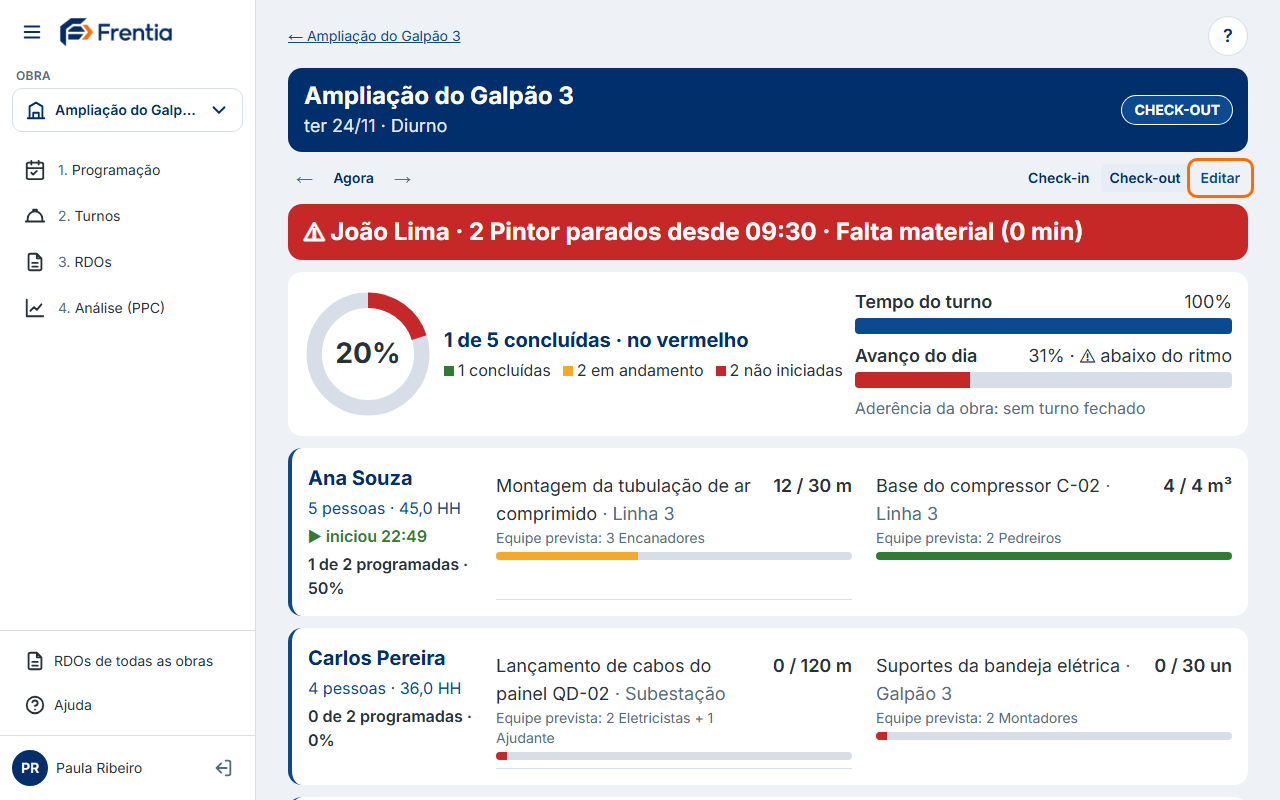
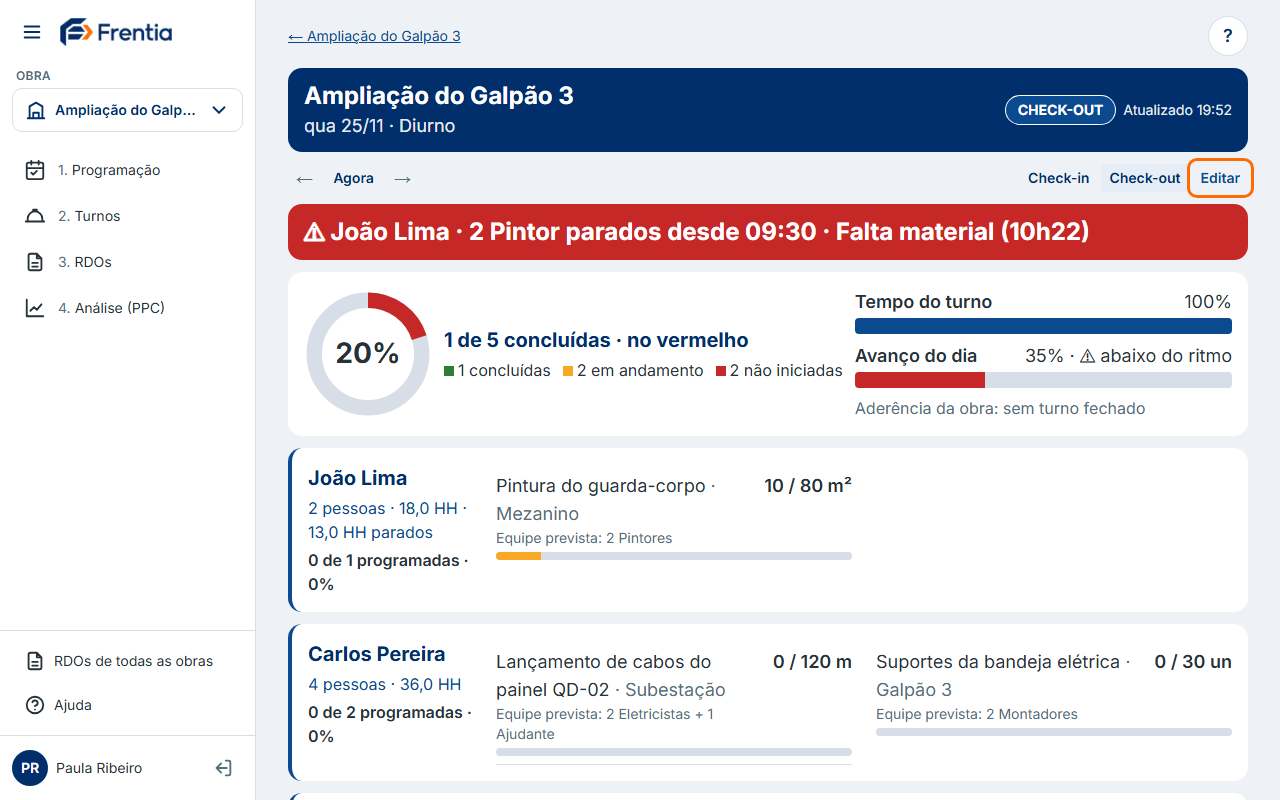
feat(quadro): TV mais legível — check-in de manhã, ajuda primeiro, causa externa×interna, observação, acima da meta, cedidos e hora (item 14)
Dependência entre equipes virou o item 23 do backlog.

diff --git a/components/quadro/Quadro.tsx b/components/quadro/Quadro.tsx
@@ -2,8 +2,8 @@ import Link from "next/link";
 import { pessoas } from "@/lib/dominio/plural";
 import { textoEquipe } from "@/lib/dominio/equipePrevista";
 import { formatarPercentual, numeroBR, ROTULO_PERIODO } from "@/lib/dominio/formato";
-import type { FaixaQuadro, ModeloQuadro, ResumoEquipe, Visao } from "@/lib/dominio/quadro";
-import { CAUSAS, type StatusAtividade } from "@/lib/dominio/tipos";
+import { ordenarPorAjuda, type FaixaQuadro, type ModeloQuadro, type ResumoEquipe, type Visao } from "@/lib/dominio/quadro";
+import { CAUSAS, GRUPO_CAUSA, type StatusAtividade } from "@/lib/dominio/tipos";
 import { nomeDaEquipe } from "@/lib/dominio/efetivoHH";
 import { resumoDoTurno } from "@/lib/dominio/ritmo";
 import type { Problema } from "@/lib/dominio/problemas";
@@ -48,11 +48,14 @@ function textoResumo(r: ResumoEquipe): string {
 }
 
 function Recebidos({ r, nome }: { r: ResumoEquipe; nome: (id: string | null) => string }) {
-  if (r.recebidos.length === 0) return null;
+  if (r.recebidos.length === 0 && r.cedidos.length === 0) return null;
   return (
     <ul className="text-sm text-operacional xl:text-base">
       {r.recebidos.map((x) => (
         <li key={x.emprestimo_id}>{`+${pessoas(x.quantidade, x.funcao)} (de ${nome(x.de)}, ${x.inicio}–${x.fim})`}</li>
+      ))}
+      {r.cedidos.map((x) => (
+        <li key={`c-${x.emprestimo_id}`} className="text-texto-suave">{`−${pessoas(x.quantidade, x.funcao)} (para ${nome(x.para)}, ${x.inicio}–${x.fim})`}</li>
       ))}
     </ul>
   );
@@ -83,7 +86,7 @@ function Faixa({
         <h3 className="text-base font-bold text-primaria xl:text-xl">{nome}</h3>
         {visao === "checkin" ? (
           <>
-            {faixa.efetivo.length === 0 && r.recebidos.length === 0 ? (
+            {faixa.efetivo.length === 0 && r.recebidos.length === 0 && r.cedidos.length === 0 ? (
               <p className="text-sm text-texto-suave">Efetivo não informado</p>
             ) : (
               <ul className="text-sm text-operacional xl:text-base">
@@ -136,6 +139,9 @@ function Faixa({
                     {textoEquipe(a.equipe) && <span className="block text-xs text-texto-suave xl:text-sm">{textoEquipe(a.equipe)}</span>}
                     {a.meta_origem && <span className="block text-xs text-texto-suave xl:text-sm">{`Meta ${a.meta_origem}`}</span>}
                   </span>
+                  {visao === "checkout" && (a.qtd_realizada ?? 0) > a.qtd_planejada && (
+                    <span className="shrink-0 rounded-full bg-sucesso px-2 text-xs font-bold text-white xl:text-sm">▲ acima da meta</span>
+                  )}
                   <span className="shrink-0 font-semibold">
                     {visao === "checkin"
                       ? `${numeroBR(a.qtd_planejada)} ${un}`
@@ -145,11 +151,14 @@ function Faixa({
                 {visao === "checkout" && (
                   <>
                     <div className="mt-1 h-1.5 overflow-hidden rounded bg-borda xl:h-2" aria-hidden="true">
-                      <div className={`h-full ${COR_BARRA[a.situacao]}`} style={{ width: `${Math.max(pct * 100, 3)}%` }} />
+                      <div className={`h-full ${COR_BARRA[a.situacao]}`} style={{ width: `${pct > 0 ? Math.max(pct * 100, 3) : 0}%` }} />
                     </div>
                     {a.causa && a.situacao !== "concluida" && (
-                      <p className="mt-0.5 text-xs text-perigo xl:text-sm">{`Causa: ${CAUSAS[a.causa]}`}</p>
+                      <p className={`mt-0.5 text-sm font-semibold xl:text-lg ${GRUPO_CAUSA[a.causa] === "externa" ? "text-alerta-escura" : "text-perigo"}`}>
+                        {`${GRUPO_CAUSA[a.causa] === "externa" ? "Causa externa" : GRUPO_CAUSA[a.causa] === "interna" ? "Causa interna" : "Causa"}: ${CAUSAS[a.causa]}`}
+                      </p>
                     )}
+                    {a.observacao && <p className="mt-0.5 text-xs text-texto-suave xl:text-base">{a.observacao}</p>}
                   </>
                 )}
               </li>
@@ -183,6 +192,7 @@ export function Quadro({ modelo, visao, publico, navegacao, seletor, aviso, edit
             {seloEtapa}
           </span>
           {fechado && <span className="rounded-full bg-white px-3 py-1 text-xs font-bold text-primaria xl:text-sm">Turno fechado</span>}
+          {!fechado && agora && <span className="text-xs opacity-90 xl:text-sm">{`Atualizado ${agora}`}</span>}
         </div>
       </header>
 
@@ -230,7 +240,7 @@ export function Quadro({ modelo, visao, publico, navegacao, seletor, aviso, edit
       {faixas.length === 0 ? (
         <p className="rounded-cartao bg-superficie p-4 text-texto-suave">Nenhuma atividade neste turno.</p>
       ) : (
-        faixas.map((f) => (
+        (visao === "checkout" ? ordenarPorAjuda(modelo) : faixas).map((f) => (
           <Faixa key={f.responsavel?.id ?? "sem"} faixa={f} visao={visao} mostrarExtra={mostrarExtra} unidadeVazia="un" nome={nomeEquipe} />
         ))
       )}

diff --git a/lib/dominio/quadro.ts b/lib/dominio/quadro.ts
@@ -52,6 +52,8 @@ export type EntradaQuadro = {
     equipe?: { funcao: string; quantidade: number }[];
     /** Meta herdada da sequência (item 19), ex.: "inclui 4 m do turno do dia (Luis)". */
     meta_origem?: string | null;
+    /** Observação do lançamento; ausente em fotos antigas. */
+    observacao?: string | null;
   }[];
   efetivo: { funcao: string; quantidade: number; responsavel_id: string | null }[];
   /** Ausente na foto do check-in antiga (= nenhuma). */
@@ -62,6 +64,7 @@ export type EntradaQuadro = {
   iniciados?: Iniciado[];
 };
 export type Visao = "checkin" | "checkout";
+export type Cedido = Omit<Recebido, "de"> & { para: string | null };
 export type ResumoEquipe = {
   concluidas: number;
   total: number;
@@ -75,6 +78,8 @@ export type ResumoEquipe = {
   hhParado: number | null;
   /** Pessoas emprestadas por outras equipes (não entram em `pessoas`). */
   recebidos: Recebido[];
+  /** Pessoas emprestadas a outras equipes (o outro lado de `recebidos`). */
+  cedidos: Cedido[];
   avisos: string[];
   /** "HH:MM" em que a equipe avisou que terminou. */
   terminouEm: string | null;
@@ -133,6 +138,7 @@ export function resumoEquipe(
     hh: total === null || (total === 0 && !h?.recebidos.length && faixa.efetivo.length === 0) ? null : umaCasa(total),
     hhParado: total === null ? null : umaCasa(h?.hhParado),
     recebidos: h?.recebidos ?? [],
+    cedidos: [],
     avisos: h?.avisos ?? [],
     terminouEm: null,
     iniciouEm: null,
@@ -172,13 +178,16 @@ export function montarQuadro(e: EntradaQuadro, agora?: string): ModeloQuadro {
       .map(({ funcao, quantidade }) => ({ funcao, quantidade }));
     const hhEquipe = hh.equipes.find((x) => x.responsavel_id === id);
     const resumo = resumoEquipe({ atividades, efetivo }, e.turno, temProgramada, hhEquipe);
+    const cedidos = hh.equipes.flatMap((x) =>
+      x.recebidos.filter((r) => r.de === id).map(({ de: _de, ...r }) => ({ ...r, para: x.responsavel_id })),
+    );
     const t = (e.terminados ?? []).find((x) => x.responsavel_id === id);
     const i = (e.iniciados ?? []).find((x) => x.responsavel_id === id);
     return {
       responsavel,
       atividades,
       efetivo,
-      resumo: { ...resumo, terminouEm: t ? horaCurta(t.terminou_em) : null, iniciouEm: i ? horaCurta(i.iniciou_em) : null },
+      resumo: { ...resumo, cedidos, terminouEm: t ? horaCurta(t.terminou_em) : null, iniciouEm: i ? horaCurta(i.iniciou_em) : null },
     };
   });
   const nome = nomeDaEquipe(e.responsaveis);
@@ -219,9 +228,25 @@ export function visaoPadrao(status: StatusTurno): Visao {
   return status === "planejado" ? "checkin" : "checkout";
 }
 
-export function visaoValida(pedida: unknown, status: StatusTurno): Visao {
+/** `algoLancado` = alguma atividade já tem realizado; em campo sem lançamento abre no check-in (não mostra 0% vermelho). */
+export function visaoValida(pedida: unknown, status: StatusTurno, algoLancado = true): Visao {
   if (status === "planejado") return "checkin";
-  return pedida === "checkin" || pedida === "checkout" ? pedida : visaoPadrao(status);
+  if (pedida === "checkin" || pedida === "checkout") return pedida;
+  return status === "em_campo" && !algoLancado ? "checkin" : visaoPadrao(status);
+}
+
+/** Faixas do check-out: quem precisa de ajuda primeiro (parada aberta, depois menor % concluído); "Sem responsável" por último. */
+export function ordenarPorAjuda(m: ModeloQuadro): FaixaQuadro[] {
+  const parada = new Set(paradasAbertas(m.entrada.ocorrencias ?? []).map((o) => o.responsavel_id));
+  const peso = (f: FaixaQuadro) => [
+    f.responsavel === null ? 1 : 0,
+    parada.has(f.responsavel?.id ?? null) ? 0 : 1,
+    f.resumo.percentual ?? 2,
+  ];
+  return m.faixas
+    .map((f, i) => ({ f, i, p: peso(f) }))
+    .sort((x, y) => x.p[0] - y.p[0] || x.p[1] - y.p[1] || x.p[2] - y.p[2] || x.i - y.i)
+    .map((x) => x.f);
 }
 
 /** Cookie (no caminho do link) com o responsável que confirmou "Sou eu". */

diff --git a/tests/dominio/quadro.test.ts b/tests/dominio/quadro.test.ts
@@ -4,6 +4,7 @@ import {
   escolherTurno,
   montarQuadro,
   ordenarPorResponsavel,
+  ordenarPorAjuda,
   resolverEscolhaCampo,
   resumoEquipe,
   textoSemResponsavel,
@@ -78,7 +79,7 @@ describe("resumoEquipe", () => {
       atividades: [at("j", 2, 1), at("j", 2, null), at("j", 1, 1, { programada: false })],
       efetivo: [{ funcao: "Mecânico", quantidade: 2, responsavel_id: "j" }, { funcao: "Soldador", quantidade: 1, responsavel_id: "j" }],
     }));
-    expect(m.faixas[0].resumo).toEqual({ concluidas: 0, total: 2, percentual: 0, extras: 1, adiantadas: 0, base: "programadas", pessoas: 3, hh: 26.4, hhParado: 0, recebidos: [], avisos: [], terminouEm: null, iniciouEm: null });
+    expect(m.faixas[0].resumo).toEqual({ concluidas: 0, total: 2, percentual: 0, extras: 1, adiantadas: 0, base: "programadas", pessoas: 3, hh: 26.4, hhParado: 0, recebidos: [], cedidos: [], avisos: [], terminouEm: null, iniciouEm: null });
   });
 
   it("empréstimo: horas vão para a equipe destino, pessoas ficam na origem", () => {
@@ -94,6 +95,8 @@ describe("resumoEquipe", () => {
     expect(ana.resumo.recebidos).toHaveLength(1);
     const joao = m.faixas.find((f) => f.responsavel?.id === "j")!;
     expect(joao.resumo).toMatchObject({ pessoas: 6, hh: 46 });
+    expect(joao.resumo.cedidos).toEqual([{ emprestimo_id: ana.resumo.recebidos[0].emprestimo_id, para: "a", funcao: "Montador", quantidade: 2, inicio: "13:00", fim: ana.resumo.recebidos[0].fim }]);
+    expect(ana.resumo.cedidos).toEqual([]);
   });
 
   it("foto antiga sem ocorrências nem intervalo", () => {
@@ -164,6 +167,12 @@ describe("visão", () => {
     expect(visaoValida("xyz", "fechado")).toBe("checkout");
     expect(visaoValida("checkin", "fechado")).toBe("checkin");
   });
+  it("em campo sem nada lançado abre no check-in (de manhã não mostra 0% vermelho)", () => {
+    expect(visaoValida(undefined, "em_campo", false)).toBe("checkin");
+    expect(visaoValida(undefined, "em_campo", true)).toBe("checkout");
+    expect(visaoValida(undefined, "enviado", false)).toBe("checkout");
+    expect(visaoValida("checkout", "em_campo", false)).toBe("checkout");
+  });
 });
 
 describe("resolverEscolhaCampo", () => {
@@ -230,6 +239,25 @@ describe("quadro: paradas abertas e equipes que terminaram", () => {
   });
   it("sem paradas abertas: lista vazia", () => {
     expect(montarQuadro(entrada({})).paradas).toEqual([]);
+  });
+});
+
+describe("ordenarPorAjuda (check-out)", () => {
+  it("parada aberta primeiro, depois menor % concluído; sem responsável por último", () => {
+    const e = entrada({
+      responsaveis: [
+        { id: "j", nome: "João", ativo: true },
+        { id: "a", nome: "Ana", ativo: true },
+        { id: "c", nome: "Carlos", ativo: true },
+      ],
+      atividades: [at("a", 1, 1), at("j", 2, 0), at("c", 1, 1), at("c", 1, 0), at(null, 1, 0)],
+      ocorrencias: [
+        { id: "p1", responsavel_id: "a", funcao: "Mecânico", tipo: "parado", quantidade: 1, hora_inicio: "10:00", hora_fim: null,
+          destino_responsavel_id: null, emprestimo_id: null, causa: "material", created_at: "1" },
+      ],
+    });
+    const m = montarQuadro(e);
+    expect(ordenarPorAjuda(m).map((f) => f.responsavel?.nome ?? null)).toEqual(["Ana", "João", "Carlos", null]);
   });
 });
 

diff --git a/lib/db/quadro.ts b/lib/db/quadro.ts
@@ -23,7 +23,7 @@ export async function entradaDoTurno(c: SupabaseClient, turnoId: string): Promis
   const { data, error } = await c
     .from("turnos")
     .select(
-      "id, obra_id, data, periodo, status, hora_inicio_prevista, hora_fim_prevista, hora_inicio_real, hora_fim_real, intervalo_inicio, intervalo_fim, obra:obras(id, nome), atividades(id, ordem, descricao, local, unidade, qtd_planejada, qtd_realizada, causa, programacao_atividade_id, responsavel_id, tipo, meta_origem, equipe, programacao_atividades(programacao_efetivo(funcao, quantidade, created_at))), efetivo(id, funcao, quantidade, responsavel_id, created_at), efetivo_ocorrencias(*), turno_equipes_terminadas(responsavel_id, terminou_em), turno_equipes_iniciadas(responsavel_id, iniciou_em)",
+      "id, obra_id, data, periodo, status, hora_inicio_prevista, hora_fim_prevista, hora_inicio_real, hora_fim_real, intervalo_inicio, intervalo_fim, obra:obras(id, nome), atividades(id, ordem, descricao, local, unidade, qtd_planejada, qtd_realizada, causa, observacao, programacao_atividade_id, responsavel_id, tipo, meta_origem, equipe, programacao_atividades(programacao_efetivo(funcao, quantidade, created_at))), efetivo(id, funcao, quantidade, responsavel_id, created_at), efetivo_ocorrencias(*), turno_equipes_terminadas(responsavel_id, terminou_em), turno_equipes_iniciadas(responsavel_id, iniciou_em)",
     )
     .eq("id", turnoId)
     .maybeSingle();
@@ -56,6 +56,7 @@ export async function entradaDoTurno(c: SupabaseClient, turnoId: string): Promis
     tipo: (a.tipo as TipoAtividade | null) ?? null,
     equipe: equipeDaLinha(a),
     meta_origem: (a.meta_origem as string | null) ?? null,
+    observacao: (a.observacao as string | null) ?? null,
   }));
   const efetivo: EntradaQuadro["efetivo"] = [...(t.efetivo ?? [])]
     .sort((x, y) => String(x.created_at).localeCompare(String(y.created_at)) || String(x.id).localeCompare(String(y.id)))

diff --git a/lib/ajuda/conteudo/quadro-tv.ts b/lib/ajuda/conteudo/quadro-tv.ts
@@ -24,7 +24,9 @@ export const quadroTv: Capitulo = {
       titulo: "Check-in e check-out no quadro",
       texto: [
         "Antes de liberar o turno, o quadro mostra o check-in: o que cada equipe vai fazer, a quantidade planejada e o efetivo. Atividade fora da programação aparece com o selo \"EXTRA\".",
-        "Depois de liberar, mostra o check-out: realizado sobre planejado, barra de cor, a causa quando há, e por equipe \"x de y programadas\", pessoas e HH. Use os links \"Check-in\" e \"Check-out\", abaixo do cabeçalho, para trocar de visão.",
+        "Depois de liberar, o quadro continua no check-in até a primeira quantidade ser lançada; aí passa ao check-out: realizado sobre planejado, barra de cor, a causa e a observação quando há, e por equipe \"x de y programadas\", pessoas e HH. Use os links \"Check-in\" e \"Check-out\", abaixo do cabeçalho, para trocar de visão.",
+        "No check-out, as equipes que mais precisam de ajuda vêm primeiro: quem está com parada em aberto e, depois, quem tem o menor percentual concluído. A causa aparece em letra maior: \"Causa externa\" (fora do controle da equipe) em marrom e \"Causa interna\" em vermelho. Quem passou da meta ganha o selo \"▲ acima da meta\".",
+        "Empréstimo de efetivo aparece dos dois lados: \"+2 Mecânico (de Fernando…)\" em quem recebeu e \"−2 Mecânico (para Francisco…)\" em quem cedeu. No cabeçalho, \"Atualizado HH:MM\" mostra a hora da última atualização.",
       ],
     },
     {

diff --git a/lib/ajuda/novidades.ts b/lib/ajuda/novidades.ts
@@ -4,6 +4,11 @@ import type { Novidade } from "./tipos";
 export const NOVIDADES: Novidade[] = [
   {
     data: "2026-11-25",
+    texto: "Quadro mais legível na TV: de manhã abre no check-in, quem precisa de ajuda vem primeiro, causa externa e interna em cores diferentes e letra maior, observação, selo \"acima da meta\", empréstimo nos dois lados e hora da última atualização.",
+    href: "/ajuda/quadro-tv#visoes",
+  },
+  {
+    data: "2026-11-25",
     texto: "Análise (PPC) mais fiel: começa na semana em que a obra começou, mostra \"provisório\" no PPC do período enquanto há semana em andamento e separa as causas em externas, internas e outras.",
     href: "/ajuda/encerrar-semana#analise",
   },

diff --git a/components/quadro/prepararQuadro.ts b/components/quadro/prepararQuadro.ts
@@ -30,13 +30,13 @@ export async function prepararQuadro(
   const turno = escolha.turno;
   if (!turno) return null;
 
-  const visao = visaoValida(umValor(busca.visao), turno.status);
   const [entrada, aderenciaObra, problemas] = await Promise.all([
     entradaDoTurno(c, turno.id),
     aderenciaDaObra(c, obraId),
     listarProblemas(c, obraId, true),
   ]);
   if (!entrada) return null;
+  const visao = visaoValida(umValor(busca.visao), turno.status, entrada.atividades.some((a) => a.qtd_realizada !== null));
 
   let aviso: string | null = escolha.foraDeHoje
     ? `Sem turno hoje — mostrando ${ddmm(turno.data)} ${ROTULO_PERIODO[turno.periodo].toLowerCase()}`

diff --git a/docs/backlog.md b/docs/backlog.md
@@ -78,7 +78,7 @@ com limite de gasto, e vira recurso do plano pago quando a cobrança existir.
     O cálculo está certo (PPC semanal só conta atividade 100% cumprida na semana), falta rótulo: "Cumprimento do dia"
     × "PPC da semana" com explicação (ⓘ), avanço físico ao lado; o extra não deve entrar no denominador do turno/RDO
     (como no quadro). Atividade a 50% aparecer "0%" precisa de explicação. [P2]
-14. **Quadro e TV** — abre em CHECK-OUT de manhã com 0% e barras vermelhas; causas externas e internas iguais;
+14. ✅ **No ar desde 2026-11-25** (exceto a dependência entre equipes, que virou o item 23) — **Quadro e TV** — abre em CHECK-OUT de manhã com 0% e barras vermelhas; causas externas e internas iguais;
     observações não aparecem; ordem alfabética (quem precisa de ajuda fica para trás); produção acima da meta não se
     destaca; fonte da causa ~14 px ilegível a 3 m; sem hora da última atualização; traço vermelho em atividade com 0.
     Dependência entre equipes não aparece (João esperando Carlos). [P1, P2, João, Rita]
@@ -136,6 +136,8 @@ com limite de gasto, e vira recurso do plano pago quando a cobrança existir.
 22. ✅ **No ar desde 2026-11-25** — **Quadro só exibe problemas e oportunidades** — hoje (item 2.5) o cadastro, "Resolvido", "Reabrir" e "Apagar"
     ficam na página do quadro do planejador. A ideia: o quadro serve só de exibição (como na TV) e o planejador
     controla e edita tudo pela aba Turno. Atualizar manual, capturas e Novidades. [Luis, 2026-11-24]
+
+23. **Dependência entre equipes no quadro** — mostrar quando uma equipe espera outra (João esperando Carlos). A parada já guarda "aguardando responsável"; falta exibir no quadro e talvez ligar atividade a atividade. Saiu do item 14. [P1, 2026-11-25]
 
 ---
 
